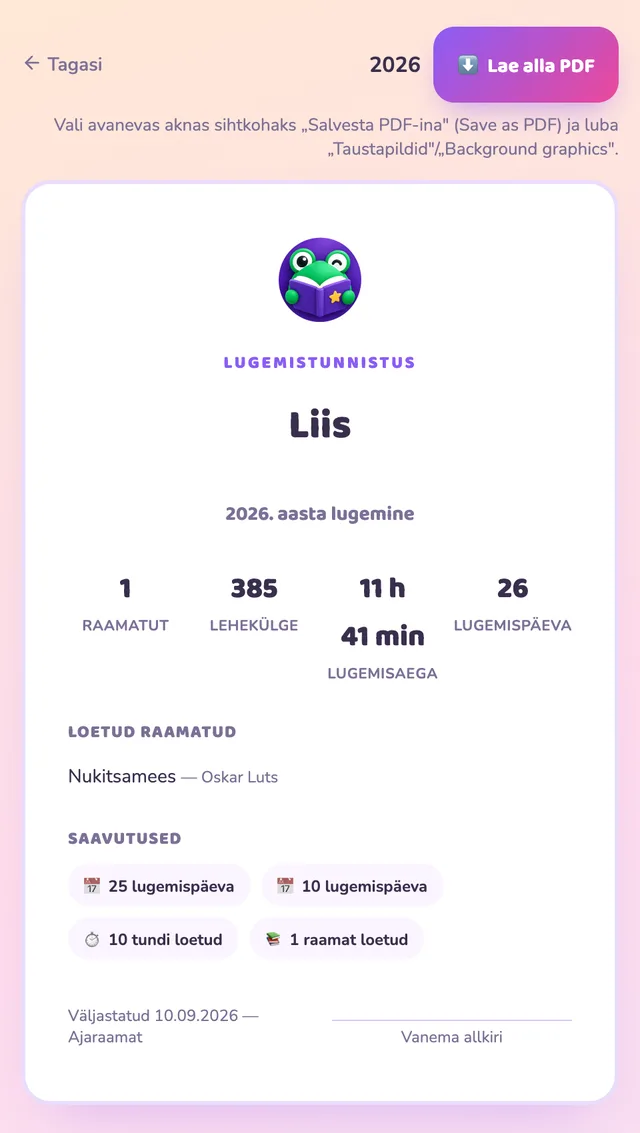
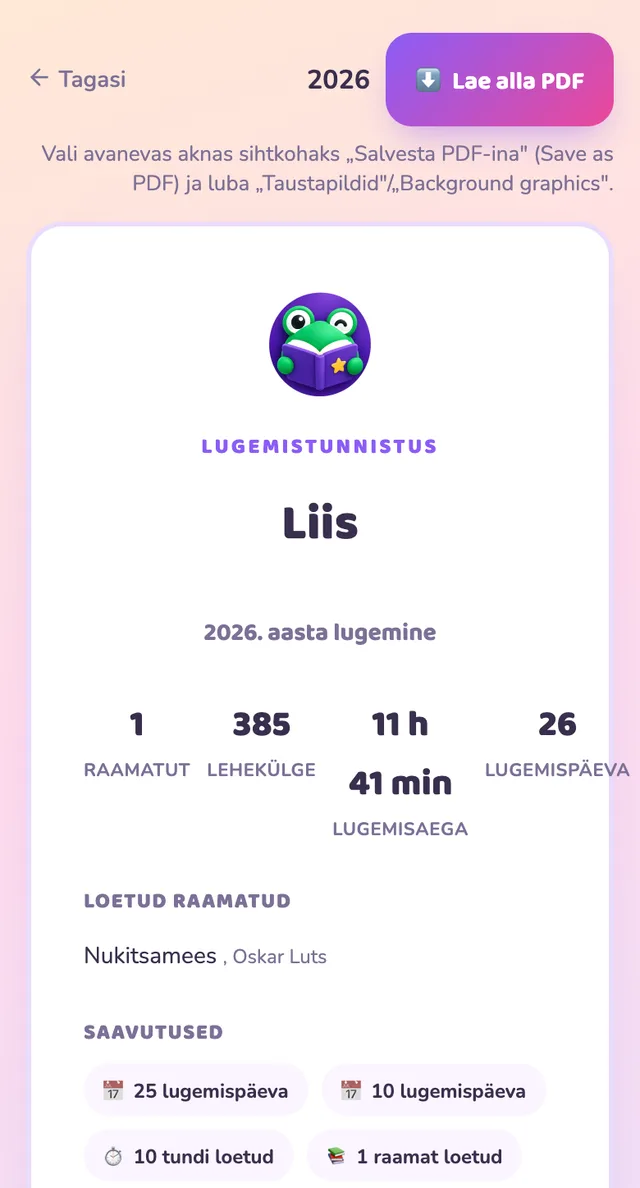
Recapture tour screenshots to fix the crop and add dark-mode variants
The original 8 screenshots were cropped at their own varied aspect
ratios (e.g. 0.64 for the dashboard), all wider relative to height
than the phone frame's fixed display box (280x520, ratio 0.54).
object-fit: cover was cropping the difference off the left/right
edges, cutting the 'Logi välja' button and right-side stats clean out
of view.

Recaptured all 8 screens (light + dark, 16 total) with Playwright at
the frame's exact 390x724 aspect ratio to begin with, so no further
cropping happens in the browser — every screenshot now shows its full
width, nothing clipped.

index.php's tour now renders a light + dark <img> per tab (data-i +
data-theme), and the JS picks whichever matches both the active tab
and the current prefers-color-scheme, re-evaluating on live theme
changes too. Falls back to tab 0 / light with no JS.

diff --git a/index.php b/index.php
@@ -489,14 +489,27 @@ $adminEmail = defined('ADMIN_EMAIL') ? trim((string) ADMIN_EMAIL) : '';
       <div class="tour-preview">
         <div class="tour-frame">
           <span class="tour-notch"></span>
-          <img src="screens/01_dashboard.webp" width="640" height="1000" alt="Vanema töölaud" data-i="0">
-          <img src="screens/02_overview.webp" width="640" height="820" alt="Pere ülevaade" data-i="1" hidden>
-          <img src="screens/03_books.webp" width="640" height="1200" alt="Raamatud ja väljakutsed" data-i="2" hidden>
-          <img src="screens/04_milestones.webp" width="640" height="1033" alt="Saavutused" data-i="3" hidden>
-          <img src="screens/05_week.webp" width="640" height="867" alt="Iganädalane kokkuvõte" data-i="4" hidden>
-          <img src="screens/06_certificate.webp" width="640" height="1133" alt="Aastane lugemistunnistus" data-i="5" hidden>
-          <img src="screens/07_child.webp" width="640" height="1143" alt="Lapse vaade" data-i="6" hidden>
-          <img src="screens/08_child_milestones.webp" width="640" height="762" alt="Lapse enda saavutused" data-i="7" hidden>
+          <?php
+          // Each screen has a light and a dark capture (same crop, same
+          // aspect ratio as the frame itself, so object-fit never has to
+          // cut anything off). JS picks the right one for the tab and the
+          // viewer's current colour scheme; only tab 0 / light shows
+          // without JS.
+          $tourScreens = [
+              ['01_dashboard', 'Vanema töölaud'],
+              ['02_overview', 'Pere ülevaade'],
+              ['03_books', 'Raamatud ja väljakutsed'],
+              ['04_milestones', 'Saavutused'],
+              ['05_week', 'Iganädalane kokkuvõte'],
+              ['06_certificate', 'Aastane lugemistunnistus'],
+              ['07_child', 'Lapse vaade'],
+              ['08_child_milestones', 'Lapse enda saavutused'],
+          ];
+          foreach ($tourScreens as $i => [$slug, $alt]):
+          ?>
+          <img src="screens/<?= $slug ?>.webp" width="640" height="1188" alt="<?= htmlspecialchars($alt) ?>" data-i="<?= $i ?>" data-theme="light"<?= $i === 0 ? '' : ' hidden' ?>>
+          <img src="screens/<?= $slug ?>_dark.webp" width="640" height="1188" alt="<?= htmlspecialchars($alt) ?>" data-i="<?= $i ?>" data-theme="dark" hidden>
+          <?php endforeach; ?>
         </div>
       </div>
     </div>
@@ -557,13 +570,28 @@ $adminEmail = defined('ADMIN_EMAIL') ? trim((string) ADMIN_EMAIL) : '';
 (function () {
   var tabs = document.querySelectorAll('.tour-tab');
   var imgs = document.querySelectorAll('.tour-frame img');
+  var darkMq = window.matchMedia('(prefers-color-scheme: dark)');
+
+  function showActive() {
+    var active = document.querySelector('.tour-tab.active');
+    var i = active ? active.getAttribute('data-i') : '0';
+    var theme = darkMq.matches ? 'dark' : 'light';
+    imgs.forEach(function (img) {
+      img.hidden = !(img.getAttribute('data-i') === i && img.getAttribute('data-theme') === theme);
+    });
+  }
+
   tabs.forEach(function (tab) {
     tab.addEventListener('click', function () {
-      var i = tab.getAttribute('data-i');
       tabs.forEach(function (t) { t.classList.toggle('active', t === tab); });
-      imgs.forEach(function (img) { img.hidden = (img.getAttribute('data-i') !== i); });
+      showActive();
     });
   });
+
+  // Live theme switches (e.g. macOS auto dark mode at sunset) swap the
+  // currently-shown screenshot too, not just the page chrome.
+  if (darkMq.addEventListener) darkMq.addEventListener('change', showActive);
+  showActive();
 })();
 </script>
 </body>
